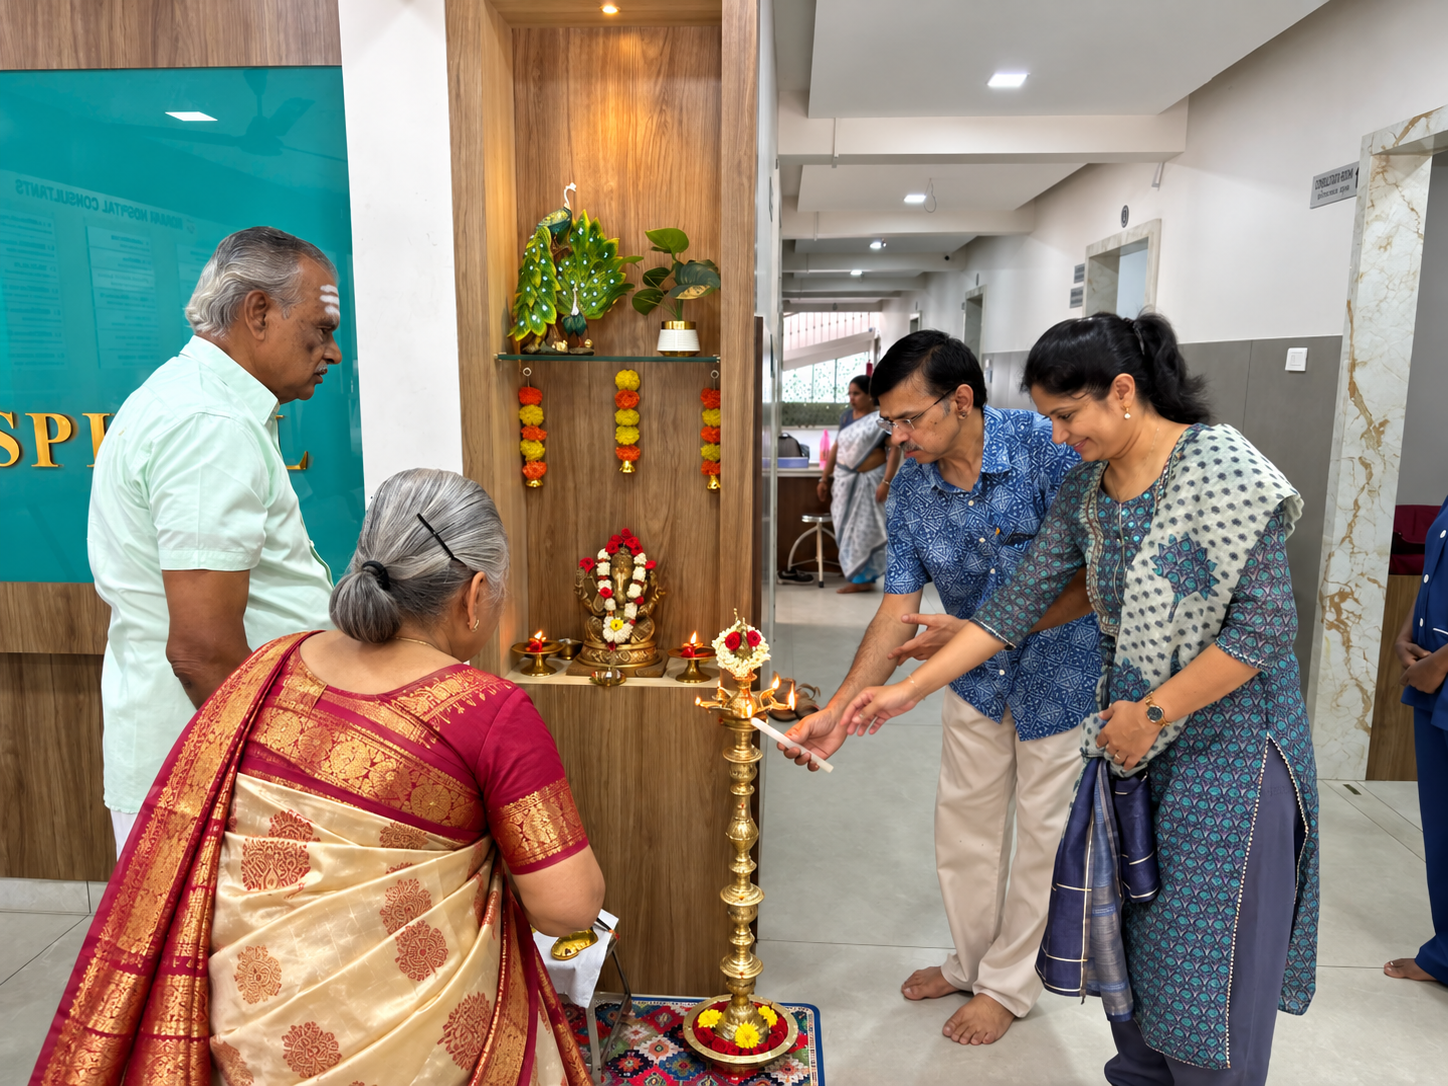
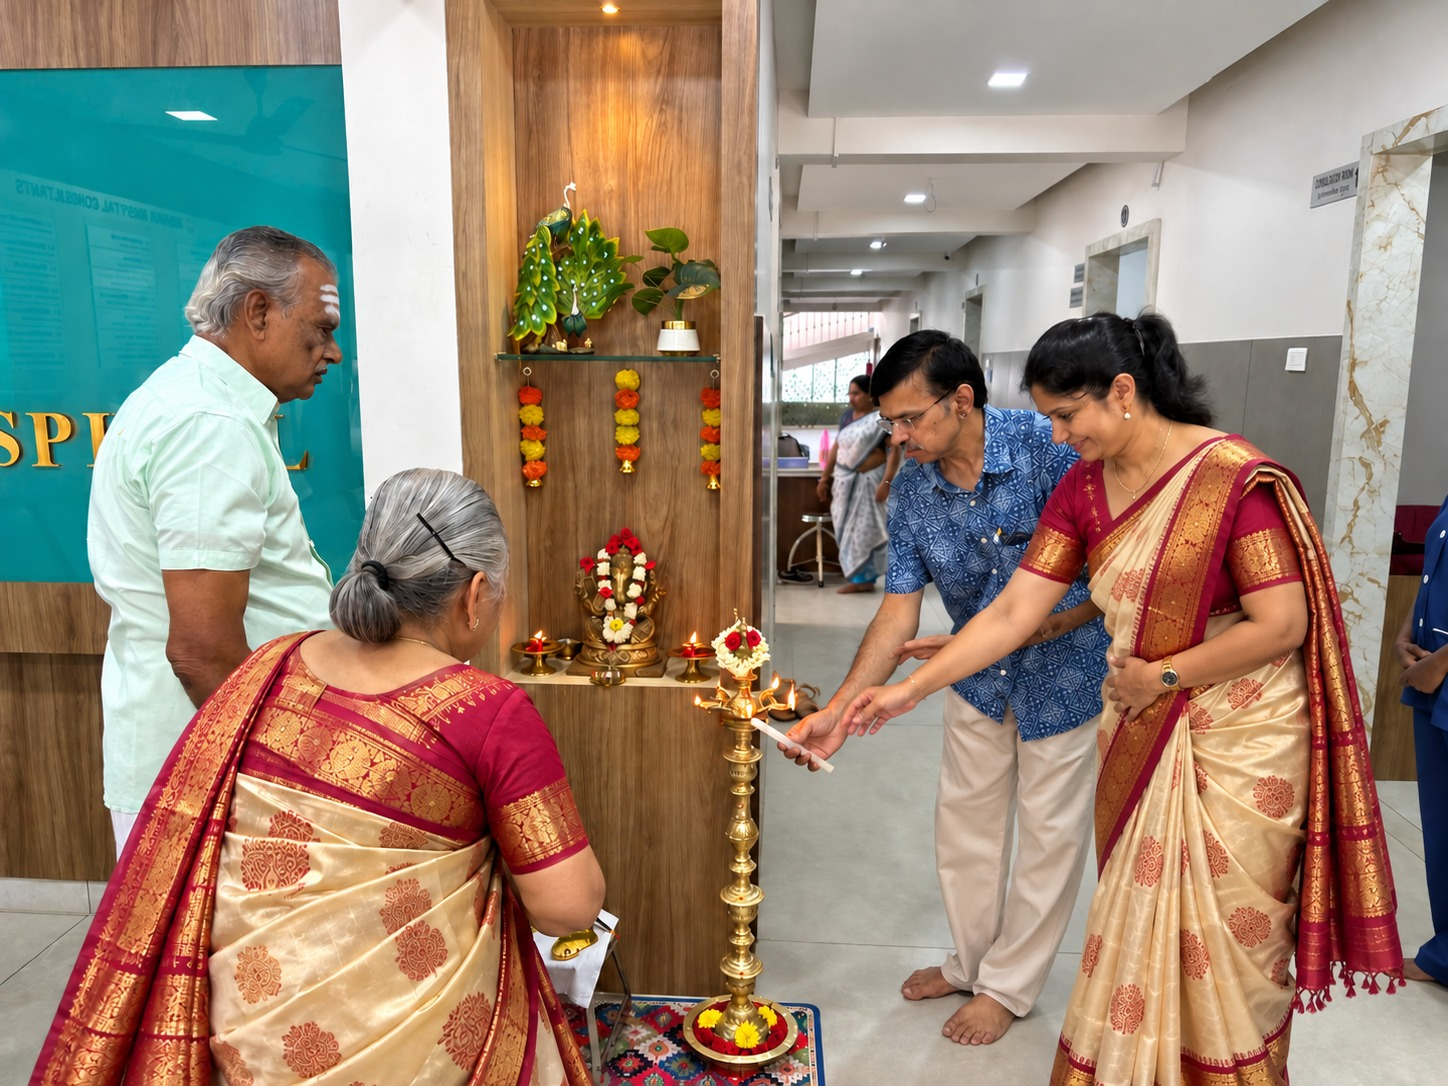
Replace image 11 with image copy 29 lamp lighting photo

diff --git a/src/pages/GalleryPage.jsx b/src/pages/GalleryPage.jsx
@@ -12,7 +12,7 @@ const ALL_WEBSITE_IMAGES = [
   { src: '/hero/image-10.png', alt: 'Hospital Main Entrance', title: 'Hospital Main Entrance' },
 
   // Hospital Ceremonies, Doctors & Healthcare Team
-  { src: '/hero/image-11.png', alt: 'Hospital Opening Ceremony', title: 'Hospital Opening Ceremony' },
+  { src: '/hero/image-29.png', alt: 'Hospital Opening Ceremony', title: 'Hospital Opening Ceremony' },
   { src: '/hero/image-12.png', alt: 'Lamp Lighting Ceremony', title: 'Lamp Lighting Ceremony' },
   { src: '/gallery/image-28.png', alt: 'Dr. Saravana Kumar, Dr. Rashmi & Nursing Care Team', title: 'Dr. Saravana Kumar, Dr. Rashmi & Nursing Care Team' },
   { src: '/gallery/image-29.png', alt: 'Dr. Mangaleswari & Dr. Saravana Kumar with Family & Patients', title: 'Dr. Mangaleswari & Dr. Saravana Kumar with Family & Patients' },

diff --git a/src/pages/about/OurStory.jsx b/src/pages/about/OurStory.jsx
@@ -125,7 +125,7 @@ export function OurStory() {
           
           <div className="lg:col-span-6 overflow-hidden aspect-[4/3] bg-neutral-100 border border-neutral-200">
             <img 
-              src="/hero/image-11.png" 
+              src="/hero/image-29.png" 
               alt="Sabari Hospital Inauguration & Lamp Lighting Ceremony" 
               className="w-full h-full object-cover"
             />

diff --git a/src/sections/Hero.jsx b/src/sections/Hero.jsx
@@ -6,7 +6,7 @@ import { Phone } from 'lucide-react';
 const HERO_IMAGES = [
   "/hero_image.png",
   "/hero/image-10.png",
-  "/hero/image-11.png",
+  "/hero/image-29.png",
   "/hero/image-28.png",
   "/hero/image-13.png",
   "/hero/image-14.png",
